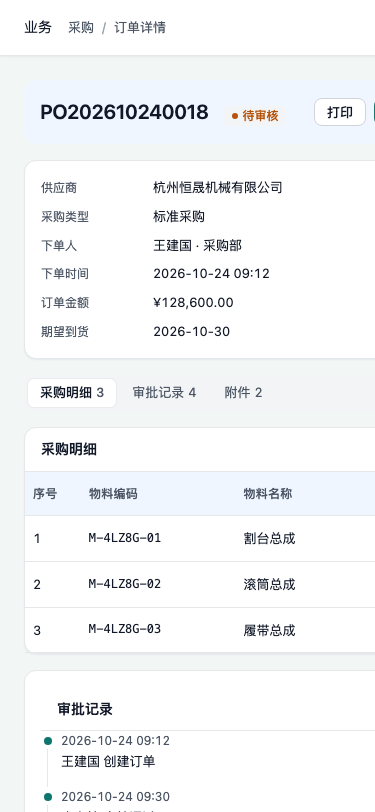
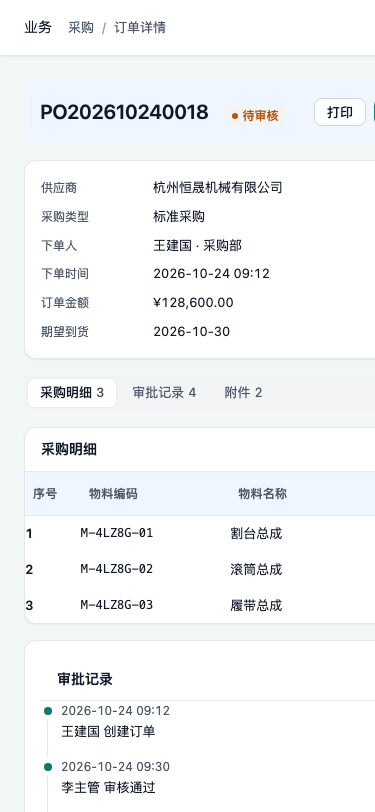
v2.8.0: 侧栏明度必须项入家族库(深浅两套槽位规则)、G4 按明度条件化、table-cards 实验结论入档(同底色家族卡片化反而趋同)、skeleton 清单文档化

diff --git a/examples/family-samples/f9/assets/family.css b/examples/family-samples/f9/assets/family.css
@@ -5,3 +5,5 @@
 .c-workbench__head { background: var(--s-color-primary-soft); border-radius: var(--s-radius-card); padding: var(--s-space-4); }
 .c-data-table th { background: var(--s-color-primary-soft); }
 .c-workbench__content { max-width: var(--c-content-max); margin-inline: auto; width: 100%; }
+.c-data-table td { border: 0; padding: var(--s-space-1) 0; text-align: left; }
+.c-data-table td:first-child { font-weight: var(--s-weight-semibold); }

diff --git a/references/family-library.md b/references/family-library.md
@@ -28,6 +28,29 @@
 
 所以「十家族」不只是十组色值——形态被删会被门禁抓到。
 
+## 可用 skeleton 清单
+
+| 名称 | 效果 | 使用者 |
+| --- | --- | --- |
+| `side-light` | 浅色侧栏（配导航文字槽） | F2 · F6 |
+| `kpi-split` | 主指标加宽 1.6fr，字号升 display | F3 · F5 · F7 |
+| `flat-sections` | 去卡片框，只用底线分隔 | F1 |
+| `dense-table` | 表格行更紧 | F3 · F4 |
+| `wide-head` | 页头纵向留白翻倍 | F3 · F6 · F8 |
+| `comfort-rows` | 行内边距加大 | F9 |
+| `table-cards` | 表格转堆叠卡片 | **未采用**（实测会让同底色家族更趋同，见 pixel-rules） |
+
+## 深/浅侧栏的必须项（新增家族照此填）
+
+侧栏明度决定整套文字槽的取法，**只换背景不换文字 = 不可读**（G4 会拦）。
+
+| 侧栏 | `--s-bg-sidebar` 亮度 | 必须给的槽 | 禁止 |
+| --- | --- | --- | --- |
+| 深色（默认） | < 0.45 | `--s-on-dark-text`、`--s-on-dark-muted`、`--s-on-dark-active`、`--s-on-dark-hover`、`--s-on-dark-line`、`--s-brand-text`（浅） | 用 `--s-text-primary` 当侧栏文字 |
+| 浅色（如 F2/F6） | ≥ 0.45 | `--s-brand-text: var(--s-text-primary)`、`--s-border`、`.c-side-menu__item` 改 `--s-text-secondary`、激活项改 `--s-text-primary` | 继续用 `--s-on-dark-*` |
+
+G4 现在按侧栏亮度条件化：深色查 on-dark 弱文字对比，浅色改查正文/辅助在侧栏上的对比。
+
 ## 气质关键词 → 家族映射（Q0-3 主索引）
 
 Q0-3 是家族推荐的主索引：气质关键词 ──→ 候选家族（默认 1 个推荐 + 1 个备选）──→ 家族定义展开为整包推荐（Q1-1 主色、G2 背景与中性色、Q4-1 按钮形状、Q5-1/2 圆角与阴影哲学、Q6-2 导航深浅、Q8-4 动效性格均为家族值/家族规则）；Q0-4 品牌约束覆盖家族「自由变量」并重推色阶，触到「身份特征」即提示换家族。

diff --git a/references/families/F9-medical-teal.md b/references/families/F9-medical-teal.md
@@ -20,7 +20,9 @@
     ".c-card { border-radius: var(--s-radius-card); }",
     ".c-workbench__head { background: var(--s-color-primary-soft); border-radius: var(--s-radius-card); padding: var(--s-space-4); }",
     ".c-data-table th { background: var(--s-color-primary-soft); }",
-    ".c-workbench__content { max-width: var(--c-content-max); margin-inline: auto; width: 100%; }"
+    ".c-workbench__content { max-width: var(--c-content-max); margin-inline: auto; width: 100%; }",
+    ".c-data-table td { border: 0; padding: var(--s-space-1) 0; text-align: left; }",
+    ".c-data-table td:first-child { font-weight: var(--s-weight-semibold); }"
   ],
   "skeleton": [
     "comfort-rows"
